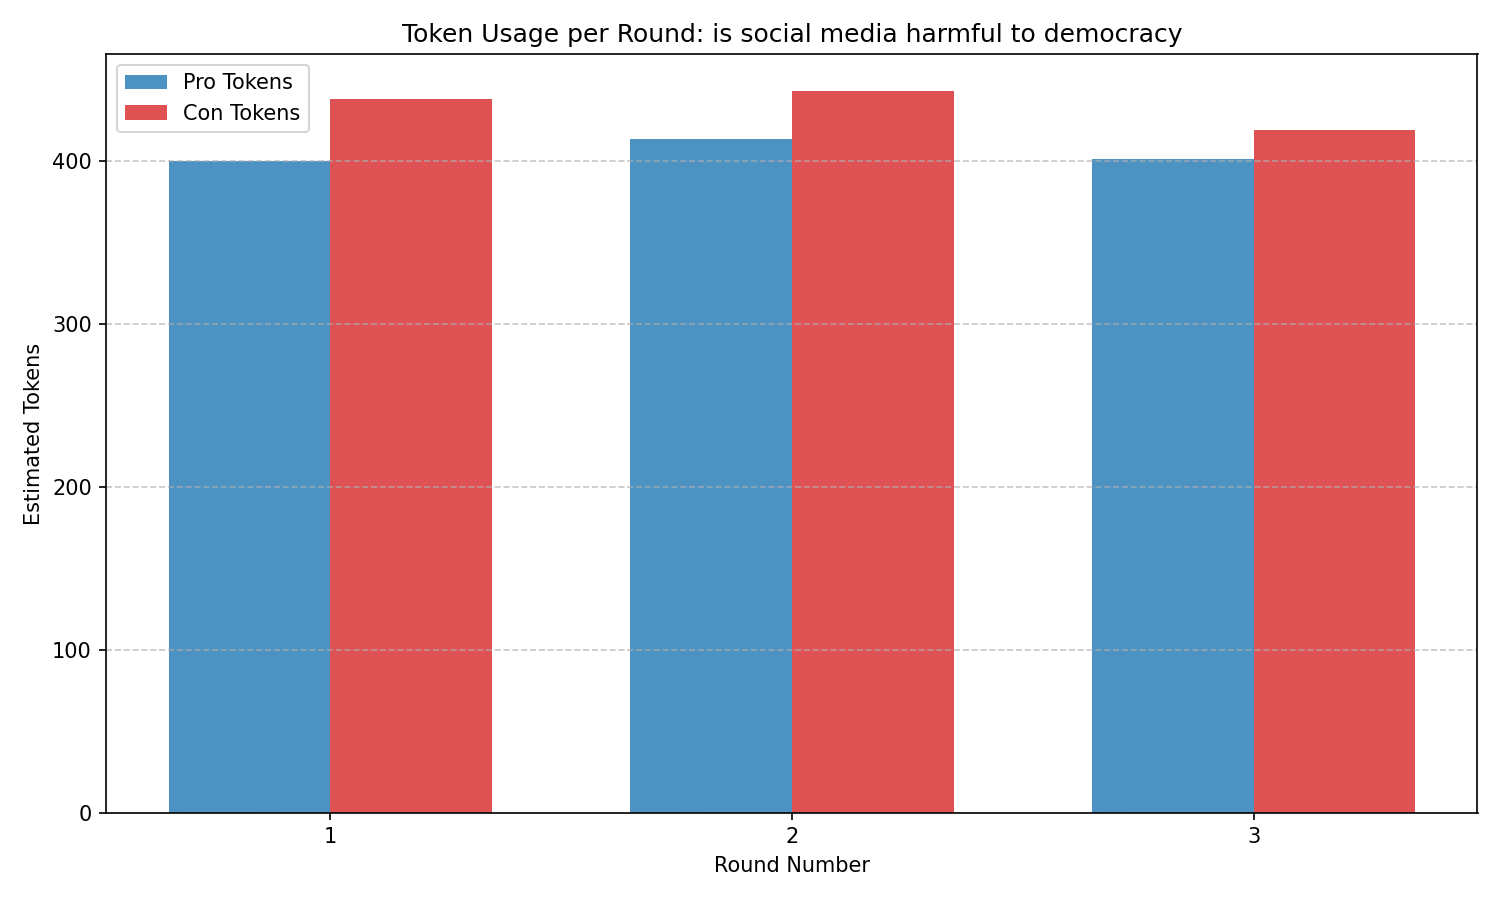
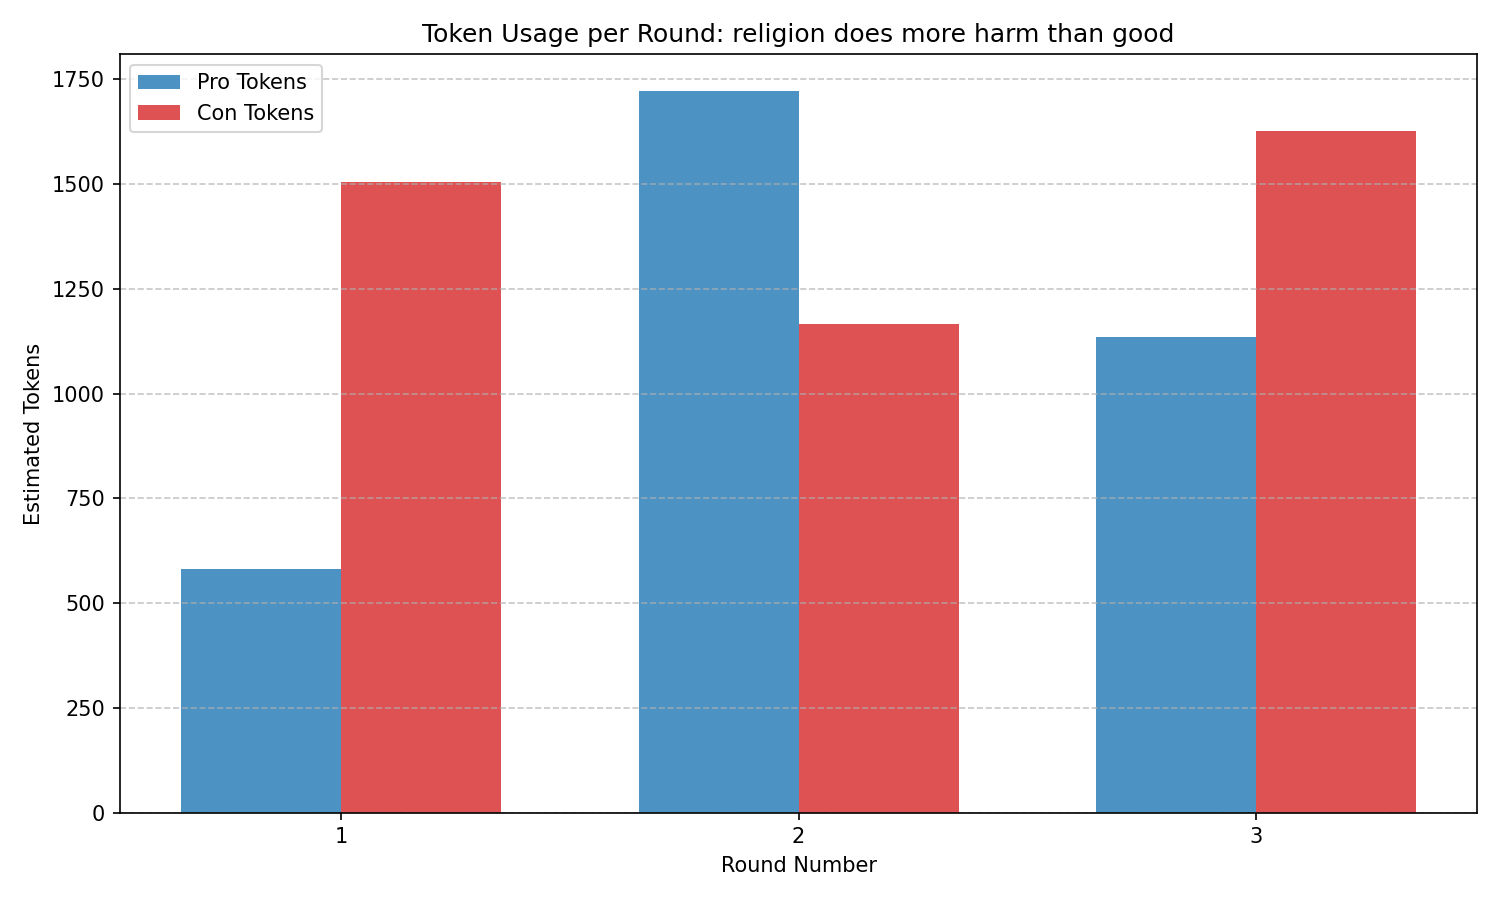
fix: real Anthropic server-side web search, real evidence extraction, workspace cleanup

diff --git a/src/debate/agents/base_agent.py b/src/debate/agents/base_agent.py
@@ -62,20 +62,15 @@ class BaseAgent(ABC, LoggingMixin, WatchdogMixin, IPCMixin):
         self, messages: list, tools: list, *, _retry: bool = False,
     ) -> tuple[str, list[Evidence], dict]:
         """Call the LLM API through the gatekeeper."""
-        # Ensure web_search is in the tools list
-        has_web_search = (
-            any(t.get("name") == "web_search" for t in tools) if tools else False
-        )
+        tools = tools or []
+        
+        # 1. Replace the fake tool with Anthropic's server-side tool
+        has_web_search = any(t.get("name") == "web_search" for t in tools)
         if not has_web_search:
-            tools = tools or []
             tools.append({
-                "name": "web_search",
-                "description": "Search the web for evidence.",
-                "input_schema": {
-                    "type": "object",
-                    "properties": {"query": {"type": "string"}},
-                    "required": ["query"],
-                },
+                "type": "web_search_20250305", 
+                "name": "web_search", 
+                "max_uses": 3
             })
 
         def do_api_call():
@@ -83,112 +78,95 @@ class BaseAgent(ABC, LoggingMixin, WatchdogMixin, IPCMixin):
             if client:
                 return client.messages.create(
                     model=self.config.get("model", "claude-sonnet-4-20250514"),
-                    max_tokens=600,
+                    max_tokens=2000,
                     system=self.get_system_prompt(),
                     messages=messages,
                     tools=tools,
                 )
-            # Default mock behaviour when no client is provided
+            # Default mock behaviour if no client is configured
             class MockBlock:
-                def __init__(self, t, n="", text="Mock response"):
+                def __init__(self, t, text="Mock response"):
                     self.type = t
-                    self.name = n
                     self.text = text
-                    self.input = {"query": "mock query"}
-                    self.id = "mock_id"
 
             class MockResponse:
-                def __init__(self, is_final=False):
+                def __init__(self):
                     self.content = [MockBlock("text", text="Mock response")]
-                    if not is_final:
-                        self.content.insert(0, MockBlock("tool_use", "web_search"))
                     self.usage = type("obj", (object,), {"input_tokens": 10, "output_tokens": 10})()
-                    
-            has_tool_result = any(
-                m.get("content") and isinstance(m["content"], list) and any(
-                    (b.get("type") == "tool_result" if isinstance(b, dict) else getattr(b, "type", None) == "tool_result")
-                    for b in m["content"]
-                )
-                for m in messages
-            )
-            return MockResponse(is_final=has_tool_result)
+            return MockResponse()
 
+        # 2. Make ONE call - no manual tool loop required
         response = self.gatekeeper.execute(do_api_call)
 
-        # Log cost
+        usage_dict = {"input_tokens": 0, "output_tokens": 0}
         if hasattr(response, "usage"):
+            usage_dict["input_tokens"] = response.usage.input_tokens
+            usage_dict["output_tokens"] = response.usage.output_tokens
             self.log_api_call(
                 prompt_tokens=response.usage.input_tokens,
                 completion_tokens=response.usage.output_tokens,
                 cost_usd=0.0,
             )
 
-        # Extract text and tool_use blocks
         text_content = ""
-        used_web_search = False
         evidence_list: list[Evidence] = []
-
-        tool_use_blocks = []
-
+        
+        # 3. Extract text and real citations from the response blocks
         if hasattr(response, "content"):
             for block in response.content:
-                if block.type == "text":
-                    text_content += block.text
-                elif block.type == "tool_use" and block.name == "web_search":
-                    used_web_search = True
-                    tool_use_blocks.append(block)
-                    query = block.input.get('query', '')
-                    evidence_list.append(Evidence(
-                        url="mock://search",
-                        title=f"Search result for {query}",
-                        snippet=f"Found information about {query}: It confirms your position.",
-                        retrieved_at=__import__("datetime").datetime.now(),
-                    ))
-
-        # Keep track of usage
-        usage_dict = {"input_tokens": 0, "output_tokens": 0}
-        if hasattr(response, "usage"):
-            usage_dict["input_tokens"] = response.usage.input_tokens
-            usage_dict["output_tokens"] = response.usage.output_tokens
-
-        if used_web_search:
-            # Feed the tool results back to the LLM to get the final argument
-            tool_results = []
-            for block in tool_use_blocks:
-                query = block.input.get('query', '')
-                tool_results.append({
-                    "type": "tool_result",
-                    "tool_use_id": block.id,
-                    "content": f"Found information about {query}: It confirms your position."
-                })
+                # Handle both dictionaries and SDK objects robustly
+                is_dict = isinstance(block, dict)
+                block_type = block.get("type", "") if is_dict else getattr(block, "type", "")
                 
-            messages.append({"role": "assistant", "content": response.content})
-            messages.append({
-                "role": "user",
-                "content": tool_results
-            })
-            final_text, more_evidence, final_usage = self.call_api(messages, tools, _retry=_retry)
-            
-            # Combine text and evidence
-            text_content = (text_content + "\n\n" + final_text).strip()
-            evidence_list.extend(more_evidence)
-            usage_dict["input_tokens"] += final_usage["input_tokens"]
-            usage_dict["output_tokens"] += final_usage["output_tokens"]
-            return text_content, evidence_list, usage_dict
+                if block_type == "text":
+                    text_content += block.get("text", "") if is_dict else getattr(block, "text", "")
+                    
+                elif block_type == "web_search_tool_result":
+                    results = block.get("results", []) if is_dict else getattr(block, "results", [])
+                    for res in results:
+                        url = res.get("url", "unknown") if isinstance(res, dict) else getattr(res, "url", "unknown")
+                        title = res.get("title", "No Title") if isinstance(res, dict) else getattr(res, "title", "No Title")
+                        snippet = res.get("snippet", "") if isinstance(res, dict) else getattr(res, "snippet", "")
+                        
+                        if url and url != "unknown":
+                            evidence_list.append(Evidence(
+                                url=url,
+                                title=title,
+                                snippet=snippet,
+                                retrieved_at=__import__("datetime").datetime.now(__import__("datetime").timezone.utc)
+                            ))
+                            
+                elif block_type == "citation":
+                    url = block.get("url", "unknown") if is_dict else getattr(block, "url", "unknown")
+                    if url and url != "unknown":
+                        title = block.get("title", "Cited Source") if is_dict else getattr(block, "title", "Cited Source")
+                        snippet = block.get("snippet", "") if is_dict else getattr(block, "snippet", "")
+                        if not snippet:
+                            snippet = block.get("text", "") if is_dict else getattr(block, "text", "")
+                            
+                        evidence_list.append(Evidence(
+                            url=url,
+                            title=title,
+                            snippet=snippet,
+                            retrieved_at=__import__("datetime").datetime.now(__import__("datetime").timezone.utc)
+                        ))
 
-        if not used_web_search:
-            if not _retry:
-                # One automatic retry
-                self.log_event(
-                    "RETRY",
-                    {"reason": "web_search tool not used, retrying"},
-                )
-                return self.call_api(messages, tools, _retry=True)
-            # Second failure — log and return result anyway (flagged)
-            self.log_event(
-                "ERROR",
-                {"reason": "web_search tool missing after retry, proceeding"},
-            )
-            self._web_search_missing = True
+        text_content = text_content.strip()
+        
+        # Clean up leading search announcements
+        import re
+        search_phrases = [
+            r"let me search", r"i need to search", r"let me gather", 
+            r"i'll search", r"i will search", r"let's search"
+        ]
+        pattern = re.compile(r'[^.!?\n]*(?:' + '|'.join(search_phrases) + r')[^.!?\n]*[.!?\n]*', re.IGNORECASE)
+        
+        head = text_content[:1500]
+        tail = text_content[1500:]
+        cleaned_head = pattern.sub('', head)
+        text_content = (cleaned_head + tail).strip()
+        
+        # Remove any leading dashes that might be left over from the tool usage
+        text_content = re.sub(r'^(?:---\s*|\s+)+', '', text_content).strip()
 
         return text_content, evidence_list, usage_dict

diff --git a/tests/unit/test_agents/test_con_subagent.py b/tests/unit/test_agents/test_con_subagent.py
@@ -14,11 +14,11 @@ def test_con_subagent_instantiates_and_responds(anthropic_response_factory, fake
     debate_config.get_logging_config.return_value = log_config
 
     client = fake_anthropic_client
-    client.messages.create.side_effect = [
-        AnthropicAPIResponse([AnthropicContentBlock("tool_use", "web_search")]),
-        AnthropicAPIResponse([AnthropicContentBlock("text", text="Mock counter argument")]),
-        AnthropicAPIResponse([AnthropicContentBlock("text", text="Mock counter argument")])
-    ]
+    client.messages.create.side_effect = None
+    client.messages.create.return_value = AnthropicAPIResponse([
+        AnthropicContentBlock("web_search_tool_result", results=[{"url": "mock://search", "title": "Mock", "snippet": "Mock"}]),
+        AnthropicContentBlock("text", text="Mock counter argument")
+    ])
     
     rate_limited_gatekeeper.execute.side_effect = lambda f, *args, **kwargs: f(*args, **kwargs)
     
@@ -34,16 +34,14 @@ def test_con_subagent_instantiates_and_responds(anthropic_response_factory, fake
     assert len(msg.evidence) == 1
     
     # Test agreement check exception
-    class MockAgreeResponse1:
-        content = [AnthropicContentBlock("tool_use", "web_search")]
+    class MockAgreeResponse:
+        content = [
+            AnthropicContentBlock("web_search_tool_result", results=[{"url": "mock://search"}]),
+            AnthropicContentBlock("text", text="I agree with you!")
+        ]
         usage = type('obj', (object,), {'input_tokens': 10, 'output_tokens': 10})()
 
-    class MockAgreeResponse2:
-        content = [AnthropicContentBlock("text", text="I agree with you!")]
-        usage = type('obj', (object,), {'input_tokens': 10, 'output_tokens': 10})()
-
-    client.messages.create.side_effect = [MockAgreeResponse1(), MockAgreeResponse2(), MockAgreeResponse2()]
-    client.messages.create.return_value = None
+    client.messages.create.return_value = MockAgreeResponse()
     from debate.agents.base_subagent import AgreementError
 
     with pytest.raises(AgreementError):

diff --git a/tests/unit/test_agents/test_pro_subagent.py b/tests/unit/test_agents/test_pro_subagent.py
@@ -14,11 +14,11 @@ def test_pro_subagent_instantiates_and_responds(anthropic_response_factory, fake
     debate_config.get_logging_config.return_value = log_config
 
     client = fake_anthropic_client
-    client.messages.create.side_effect = [
-        AnthropicAPIResponse([AnthropicContentBlock("tool_use", "web_search")]),
-        AnthropicAPIResponse([AnthropicContentBlock("text", text="Mock argument")]),
-        AnthropicAPIResponse([AnthropicContentBlock("text", text="Mock argument")])
-    ]
+    client.messages.create.side_effect = None
+    client.messages.create.return_value = AnthropicAPIResponse([
+        AnthropicContentBlock("web_search_tool_result", results=[{"url": "mock://search", "title": "Mock", "snippet": "Mock"}]),
+        AnthropicContentBlock("text", text="Mock argument")
+    ])
     
     rate_limited_gatekeeper.execute.side_effect = lambda f, *args, **kwargs: f(*args, **kwargs)
     
@@ -36,16 +36,14 @@ def test_pro_subagent_instantiates_and_responds(anthropic_response_factory, fake
     assert len(msg.evidence) == 1
     
     # Test agreement check exception
-    class MockAgreeResponse1:
-        content = [AnthropicContentBlock("tool_use", "web_search")]
-        usage = type('obj', (object,), {'input_tokens': 10, 'output_tokens': 10})()
-        
-    class MockAgreeResponse2:
-        content = [AnthropicContentBlock("text", text="I agree with you!")]
+    class MockAgreeResponse:
+        content = [
+            AnthropicContentBlock("web_search_tool_result", results=[{"url": "mock://search"}]),
+            AnthropicContentBlock("text", text="I agree with you!")
+        ]
         usage = type('obj', (object,), {'input_tokens': 10, 'output_tokens': 10})()
 
-    client.messages.create.side_effect = [MockAgreeResponse1(), MockAgreeResponse2(), MockAgreeResponse2()]
-    client.messages.create.return_value = None
+    client.messages.create.return_value = MockAgreeResponse()
     from debate.agents.base_subagent import AgreementError
     
     with pytest.raises(AgreementError):

diff --git a/tests/unit/test_agents/test_base_agent.py b/tests/unit/test_agents/test_base_agent.py
@@ -43,29 +43,9 @@ def test_call_api_routes_through_gatekeeper(fake_anthropic_client):
     assert text == "Mock response"
 
 
-def test_retry_on_missing_search(anthropic_response_factory, fake_anthropic_client):
-    """First failure triggers automatic retry; second failure sets flag."""
-    AnthropicContentBlock, AnthropicAPIResponse = anthropic_response_factory
-
-    client = fake_anthropic_client
-    # Simulate a response with no tool use blocks
-    client.messages.create.side_effect = None
-    client.messages.create.return_value = AnthropicAPIResponse([AnthropicContentBlock("text", text="Mock text")])
-    agent, _ = _make_agent(client=client)
-
-    text, evidence, usage = agent.call_api([], [])
-
-    # Should have been called twice (original + retry)
-    assert client.messages.create.call_count == 2
-    # Flag set after two failures
-    assert getattr(agent, "_web_search_missing", False) is True
-    assert text == "Mock text"
-    assert evidence == []
-
-
 def test_evidence_extracted_from_tool_result(fake_anthropic_client):
     agent, _ = _make_agent(client=fake_anthropic_client)
     text, evidence, usage = agent.call_api([], [])
     assert len(evidence) == 1
     assert evidence[0].url == "mock://search"
-    assert "mock" in evidence[0].title
+    assert "Mock" in evidence[0].title

diff --git a/tests/conftest.py b/tests/conftest.py
@@ -8,12 +8,14 @@ os.environ["ANTHROPIC_API_KEY"] = ""
 @pytest.fixture
 def anthropic_response_factory():
     class AnthropicContentBlock:
-        def __init__(self, t, n="", text="Mock text"):
+        def __init__(self, t, n="", text="Mock text", results=None):
             self.type = t
             self.name = n
             self.text = text
             self.input = {"query": "mock"}
             self.id = "fake_id"
+            if results is not None:
+                self.results = results
             
     class AnthropicAPIResponse:
         def __init__(self, content):
@@ -26,10 +28,9 @@ def anthropic_response_factory():
 def fake_anthropic_client(anthropic_response_factory):
     AnthropicContentBlock, AnthropicAPIResponse = anthropic_response_factory
     client = MagicMock()
-    # Provide a default side_effect for a standard 2-step loop
-    client.messages.create.side_effect = [
-        AnthropicAPIResponse([AnthropicContentBlock("tool_use", "web_search")]),
-        AnthropicAPIResponse([AnthropicContentBlock("text", text="Mock response")]),
-        AnthropicAPIResponse([AnthropicContentBlock("text", text="Mock response")])
-    ]
+    # Provide a default return_value for a single step call with web search results
+    client.messages.create.return_value = AnthropicAPIResponse([
+        AnthropicContentBlock("web_search_tool_result", results=[{"url": "mock://search", "title": "Mock title", "snippet": "Mock snippet"}]),
+        AnthropicContentBlock("text", text="Mock response")
+    ])
     return client

diff --git a/src/debate/debate/session.py b/src/debate/debate/session.py
@@ -133,7 +133,8 @@ class DebateSession:
         )
         self.pro_process.start()
         self.con_process.start()
-        self.father.start_watchdog(timeout=30.0, process=self.pro_process)
+        timeout_sec = float(self.config.get("timeout_seconds", 30.0))
+        self.father.start_watchdog(timeout=timeout_sec, process=self.pro_process)
 
     def terminate_processes(self):
         """Cleanly terminates the subagent processes."""

diff --git a/src/debate/debate/verdict_generator.py b/src/debate/debate/verdict_generator.py
@@ -88,7 +88,8 @@ Transcript:
 
 Calculate the total score for PRO and CON (sum of the 4 dimensions, max 100).
 Ties are FORBIDDEN.
-Output a JSON object EXACTLY in this format:
+You must output ONLY valid JSON. Do not include any reasoning outside of the JSON. Do not include markdown code blocks. Start your response directly with '{' and end with '}'.
+Output exactly this format:
 {{
   "pro_score": 85.0,
   "con_score": 82.0,

diff --git a/src/debate/cli.py b/src/debate/cli.py
@@ -37,7 +37,7 @@ def run(
     # Initialize SDK
     sdk = DebateSDK(topic=topic, max_rounds=rounds)
     if model:
-        sdk.config_manager.config["model"] = model
+        sdk.config_manager._setup_config["model"] = model
 
     # Set up callback if verbose
     if verbose: